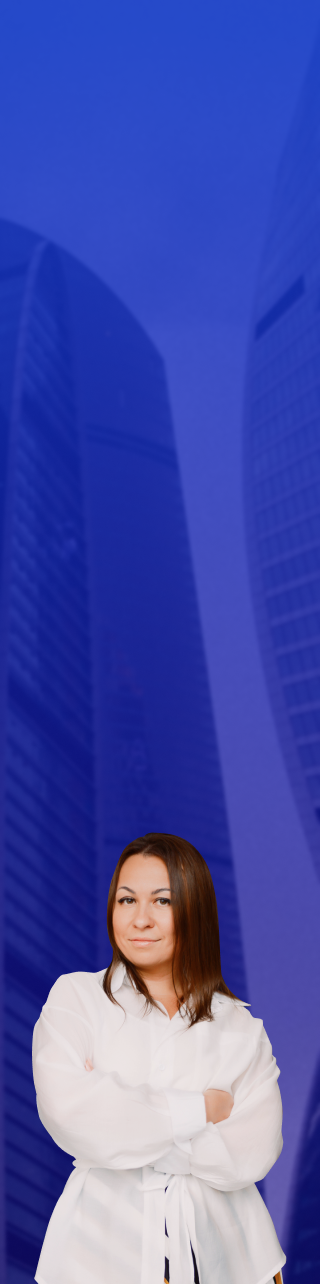
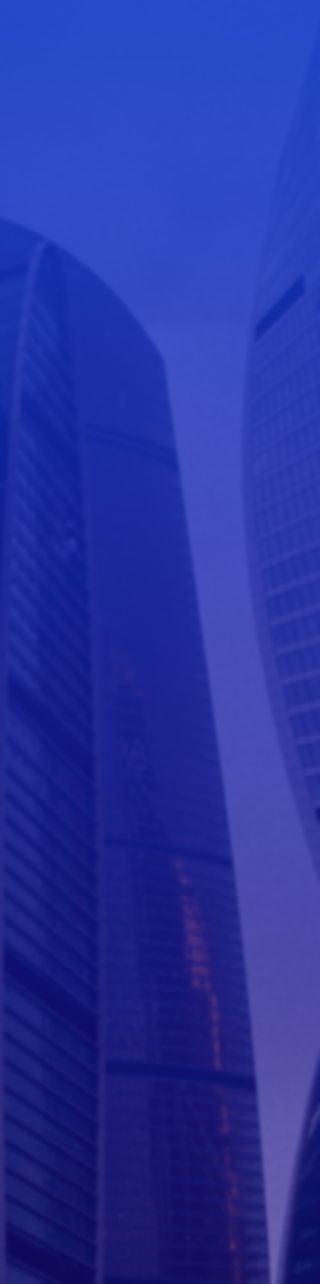
done

Changed region(s): [[0.0938, 0.6231, 0.9062, 1.0]]

diff --git a/style.css b/style.css
@@ -727,7 +727,13 @@ display: none;
   width: 253px;
   margin-left: 0;
   margin-top: 22px;
+  padding-bottom: 500px;
+  background: no-repeat url(img/Photo-top.png);
+  background-size: 259px 452px;
+  background-position: center;
+  background-position-y: 50px;
   }
+
   .fears-section{
   height: 666px;
   }
@@ -762,30 +768,50 @@ display: none;
   height: 60px;
   text-align: left;
   margin-left: 30px;
+  padding-right: 60px;
+  background: no-repeat url(img/01.svg);
+  background-size: 56px 61px;
+  background-position: right center;
   }
   .splide__slide_first p:nth-child(2){
   width: 253px;
   height: 40px;
   text-align: left;
   margin-left: 30px;
+  padding-right: 72px;
+  background: no-repeat url(img/02.svg);
+  background-size: 65px 61px;
+  background-position: right center;
   }
   .splide__slide_first p:nth-child(3){
   width: 260px;
   height: 40px;
   text-align: left;
   margin-left: 30px;
+  padding-right: 63px;
+  background: no-repeat url(img/03.svg);
+  background-size: 65px 61px;
+  background-position: right center;
   }
   .splide__slide_first p:nth-child(4){
   width: 154px;
   height: 40px;
   text-align: left;
   margin-left: 30px;
+  padding-right: 172px;
+  background: no-repeat url(img/04.svg);
+  background-size: 71px 61px;
+  background-position: right center;
   }
   .splide__slide_first p:nth-child(5){
   width: 162px;
   height: 40px;
   text-align: left;
   margin-left: 30px;
+  padding-right: 158px;
+  background: no-repeat url(img/05.svg);
+  background-size: 66px 61px;
+  background-position: right center;
   }
   .splide__slide_first p{
   margin-bottom: 20px;
@@ -795,7 +821,11 @@ display: none;
   height: 60px;
   text-align: left;
   margin-left: 30px;
-  margin-bottom: 0;
+  margin-bottom: 5px;
+  padding-right: 85px;
+  background: no-repeat url(img/06.svg);
+  background-size: 70px 61px;
+  background-position: right center;
   }
   .splide__slide_second p:nth-child(2){
   width: 253px;
@@ -803,25 +833,44 @@ display: none;
   text-align: left;
   margin-left: 30px;
   margin-top: 0;
+  margin-bottom: 16px;
+  padding-right: 89px;
+  background: no-repeat url(img/07.svg);
+  background-size: 70px 61px;
+  background-position: right center;
   }
   .splide__slide_second p:nth-child(3){
   width: 280px;
   height: 40px;
   text-align: left;
   margin-left: 30px;
+  padding-right: 58px;
+  margin-bottom: 30px;
+  background: no-repeat url(img/08.svg);
+  background-size: 72px 61px;
+  background-position: right center;
   }
   .splide__slide_second p:nth-child(4){
   width: 170px;
   height: 40px;
   text-align: left;
   margin-left: 30px;
-  margin-top: 35px;
+  margin-top: 25px;
+  padding-right: 167px;
+  background: no-repeat url(img/09.svg);
+  background-size: 72px 61px;
+  background-position: right center;
   }
   .splide__slide_second p:nth-child(5){
   width: 250px;
   height: 40px;
   text-align: left;
   margin-left: 30px;
+  padding-right: 85px;
+  padding-bottom: 16px;
+  background: no-repeat url(img/10.svg);
+  background-size: 70px 61px;
+  background-position: right center;
   }
   .splide__slide_second p{
   margin-bottom: 20px;
@@ -972,8 +1021,9 @@ display: none;
   margin-left: 72px;
   }
   .about-section{
+  width: 100%;
   height: 1364px;
-  background: url(img/Background3.png);
+  background: linear-gradient(180deg, rgba(19, 2, 128, 0.9) 1.97%, rgba(35, 113, 228, 0.9) 102.22%);
   }
   .about__title{
   font:700 24px/29.26px Montserrat,arial helvetica serif;
@@ -986,6 +1036,10 @@ display: none;
   .description{
   margin-left: 0px;
   padding: 14px;
+  padding-bottom: 450px;
+  background: no-repeat url(img/Photo2.png);
+  background-size: 285px 430px;
+  background-position: bottom center;
   }
   .about__description{
   font:700 18px/21.94px Montserrat,arial helvetica serif;
@@ -1022,11 +1076,14 @@ display: none;
   height: 80px;
   margin-bottom: 18px;
   }
+  .advantages-section{
+    width: 100%;
+  }
   .advantages_title{
   font:700 24px/29.26px Montserrat,arial helvetica serif;
   width: 225px;
   height: 58px;
-  margin-left: 49px;
+  margin-left: 93px;
   padding-top: 51px;
   }
   .advantages__text {
@@ -1039,7 +1096,7 @@ display: none;
   .advantages:nth-child(1){
   background: none;
   width: 320px;
-  height: 132px;
+  height: 63px;
   }
   .advantages:nth-child(2){
   background: none;
@@ -1048,7 +1105,7 @@ display: none;
   }
   .advantages:nth-child(3){
   background: none;
-  width: 320px;
+  width: 344px;
   height: 132px;
   }
   .advantages:nth-child(4){
@@ -1060,31 +1117,29 @@ display: none;
   width: 223px;
   height: 60px;
   margin-top: 38px;
-  margin-left: -2px;
+  margin-left: 72px;
   }
   .advantages:nth-child(2) p{
   width: 239px;
   height: 60px;
-  margin-top: 50px;
-  margin-left: 48px;
+  margin-left: 86px;
   }
   .advantages:nth-child(3) p{
   width: 250px;
   height: 100px;
-  margin-top: 78px;
-  margin-left: 25px;
+  margin-left: 74px;
   }
   .advantages:nth-child(4) p{
   width: 211px;
   height: 80px;
-  margin-top: 92px;
-  margin-right: 14px;
+  margin-top: 5px;
+  margin-left: 73px;
   }
   .advantages__button{
   font:500 16px/20px Montserrat,arial helvetica serif;
   width: 260px;
   height: 60px;
-  margin-top: 667px;
+  margin-top: 600px;
   margin-left: 70px;
   }
   .review-section{
@@ -1092,7 +1147,7 @@ display: none;
   }
   .review__title{
   font:700 24px/29px Montserrat,arial helvetica serif;
-  padding-top: 68px;
+  padding-top: 30px;
   }
   .swiper-container--reviews{
   display: none;
@@ -1239,6 +1294,7 @@ display: none;
   width: 253px;
   margin-left: 0;
   margin-top: 22px;
+  background-position-y: 41px;
 }
 .fears-section{
   height: 666px;
@@ -1274,30 +1330,35 @@ display: none;
   height: 60px;
   text-align: left;
   margin-left: 30px;
+  padding-right: 20px;
 }
 .splide__slide_first p:nth-child(2){
   width: 253px;
   height: 40px;
   text-align: left;
   margin-left: 30px;
+  padding-right: 33px;
 }
 .splide__slide_first p:nth-child(3){
   width: 260px;
   height: 40px;
   text-align: left;
   margin-left: 30px;
+  padding-right: 25px;
 }
 .splide__slide_first p:nth-child(4){
   width: 154px;
   height: 40px;
   text-align: left;
   margin-left: 30px;
+  padding-right: 132px;
 }
 .splide__slide_first p:nth-child(5){
   width: 162px;
   height: 40px;
   text-align: left;
   margin-left: 30px;
+  padding-right: 120px;
 }
 .splide__slide_first p{
   margin-bottom: 20px;
@@ -1308,6 +1369,7 @@ display: none;
   text-align: left;
   margin-left: 30px;
   margin-bottom: 0;
+  padding-right: 25px;
 }
 .splide__slide_second p:nth-child(2){
   width: 253px;
@@ -1315,12 +1377,14 @@ display: none;
   text-align: left;
   margin-left: 30px;
   margin-top: 0;
+  padding-right: 31px;
 }
 .splide__slide_second p:nth-child(3){
   width: 280px;
   height: 40px;
   text-align: left;
   margin-left: 30px;
+  padding-right: 1px;
 }
 .splide__slide_second p:nth-child(4){
   width: 170px;
@@ -1328,12 +1392,14 @@ display: none;
   text-align: left;
   margin-left: 30px;
   margin-top: 35px;
+  padding-right: 110px;
 }
 .splide__slide_second p:nth-child(5){
   width: 250px;
   height: 40px;
   text-align: left;
   margin-left: 30px;
+  padding-right: 31px;
 }
 .splide__slide_second p{
   margin-bottom: 20px;
@@ -1497,6 +1563,7 @@ background: url(img/Background3.png);
 .description{
   margin-left: -46px;
   padding: 14px;
+  background: none;
 }
 .about__description{
   font:700 18px/21.94px Montserrat,arial helvetica serif;
@@ -1550,7 +1617,7 @@ background: url(img/Background3.png);
 .advantages:nth-child(1){
   background: none;
   width: 320px;
-  height: 132px;
+  height: 34px;
 }
 .advantages:nth-child(2){
   background: none;
@@ -1565,7 +1632,7 @@ background: url(img/Background3.png);
 .advantages:nth-child(4){
   background: none;
   width: 320px;
-  height: 132px;
+  height: 100px;
 }
 .advantages:nth-child(1) p{
   width: 223px;
@@ -1582,20 +1649,20 @@ background: url(img/Background3.png);
 .advantages:nth-child(3) p{
   width: 250px;
   height: 100px;
-  margin-top: 78px;
+  margin-top: 0px;
   margin-left: 25px;
 }
 .advantages:nth-child(4) p{
   width: 211px;
   height: 80px;
-  margin-top: 92px;
-  margin-right: 14px;
+  margin-top: 0px;
+  margin-left: 5px;
 }
 .advantages__button{
   font:500 16px/20px Montserrat,arial helvetica serif;
   width: 260px;
   height: 60px;
-  margin-top: 667px;
+  margin-top: 540px;
   margin-left: 31px;
 }
 .review-section{
@@ -1603,7 +1670,7 @@ background: url(img/Background3.png);
 }
 .review__title{
   font:700 24px/29px Montserrat,arial helvetica serif;
-  padding-top: 68px;
+  padding-top: 15px;
 }
 .swiper-container--reviews{
   display: none;
